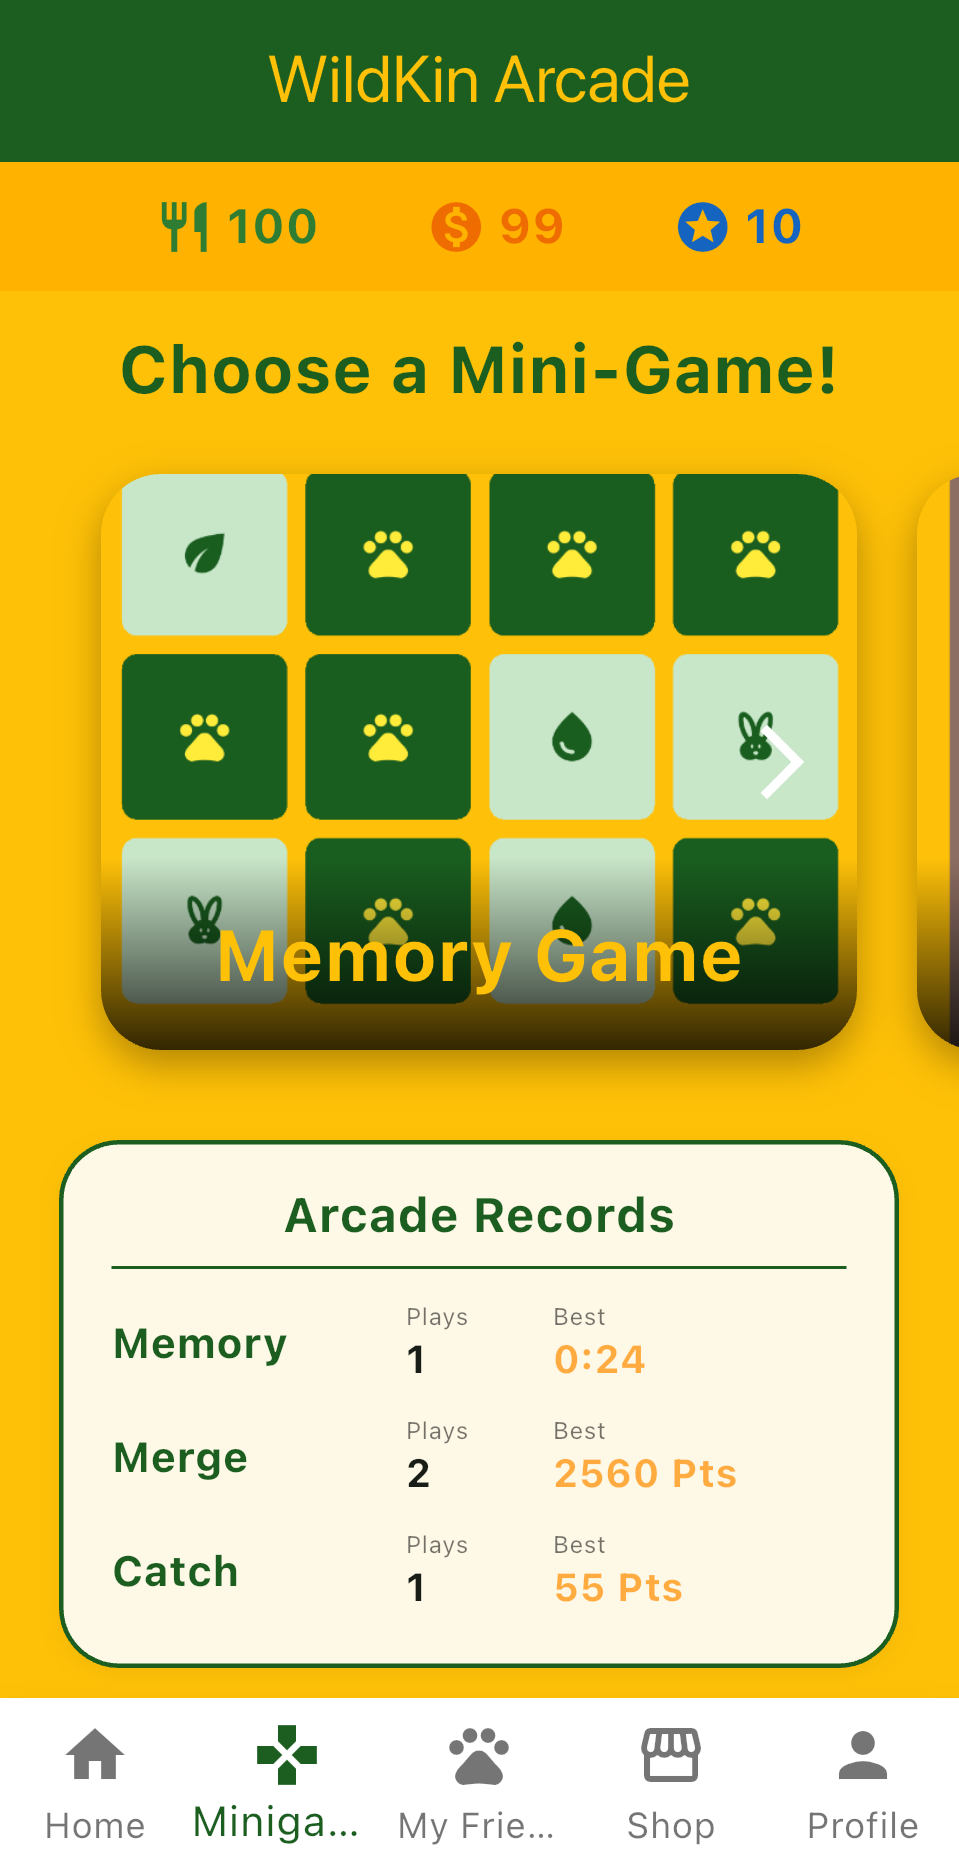
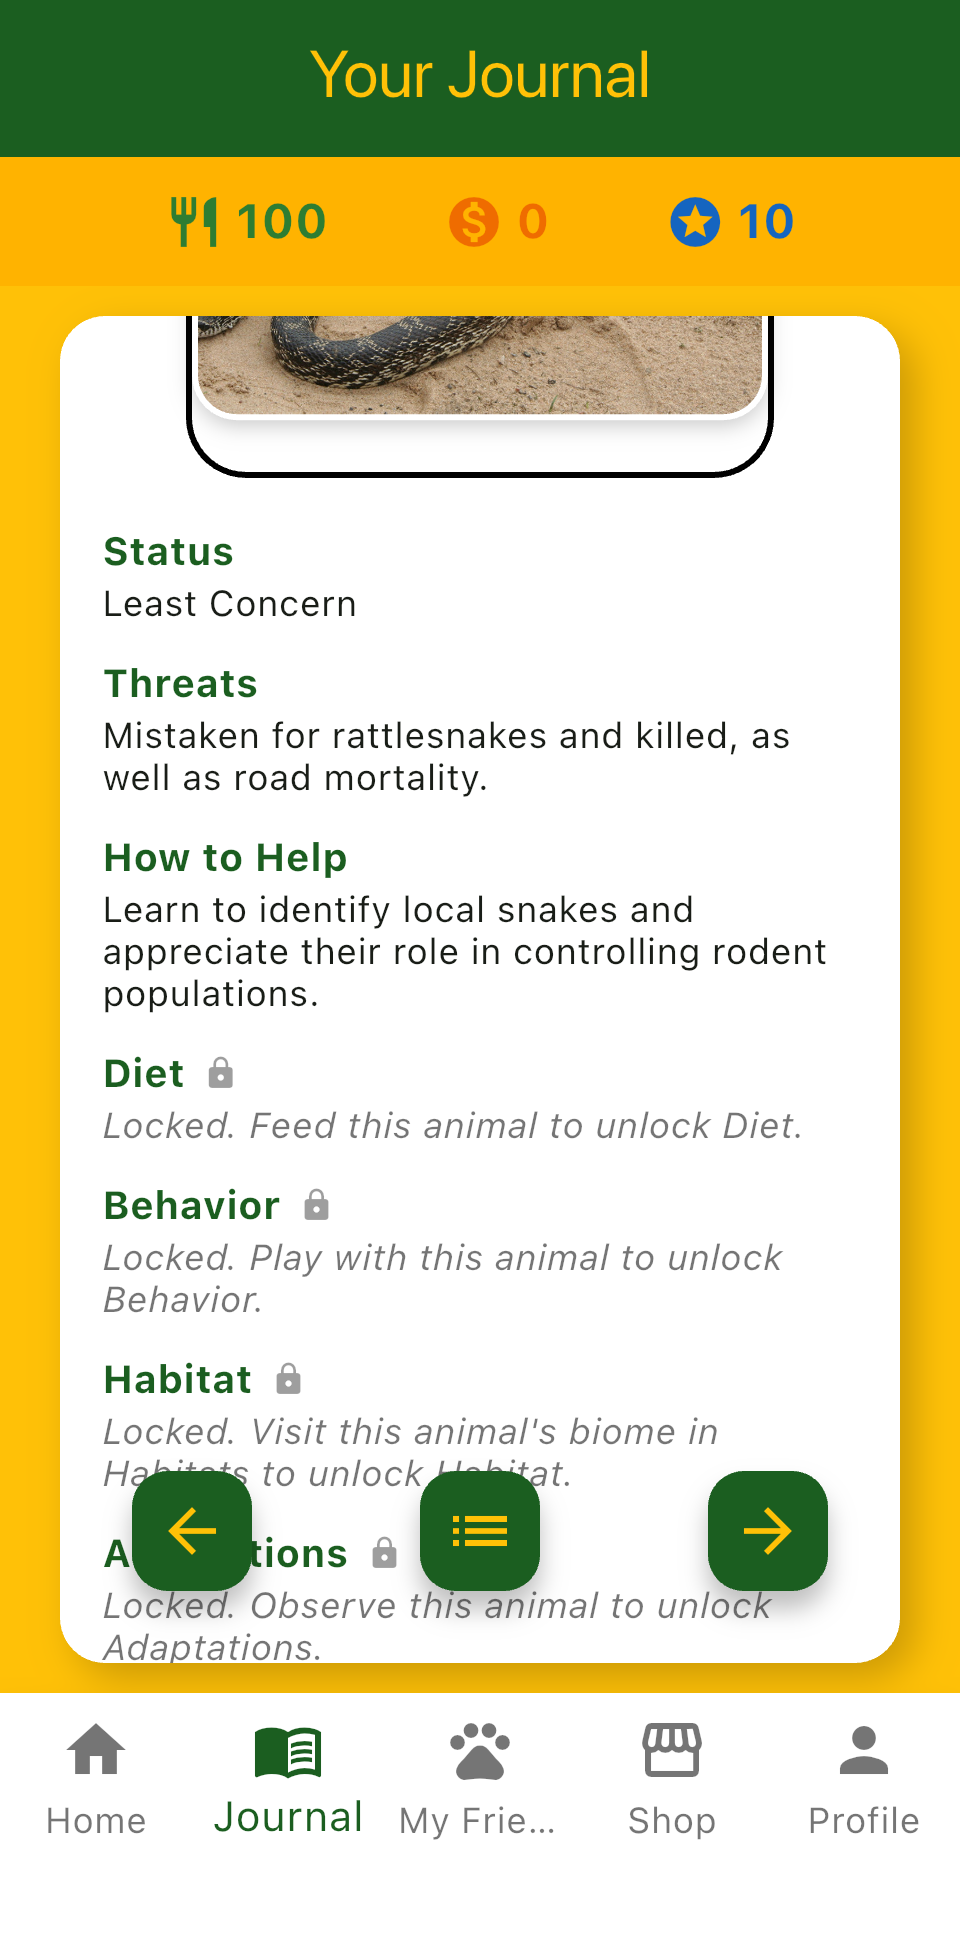
Updated images and added blog system.

diff --git a/article.html b/article.html
@@ -1,0 +1,150 @@
+<!DOCTYPE html>
+<html lang="en">
+<head>
+    <meta charset="UTF-8">
+    <meta name="viewport" content="width=device-width, initial-scale=1.0">
+    <title>Article | WildBridge</title>
+    <script src="https://cdn.tailwindcss.com"></script>
+    <script src="https://cdn.jsdelivr.net/npm/marked/marked.min.js"></script>
+    <link href="https://fonts.googleapis.com/css2?family=Inter:wght@400;700&family=Lexend:wght@500;800&display=swap" rel="stylesheet">
+    <style>
+        body { font-family: 'Inter', sans-serif; }
+        h1, h2, h3, .font-display { font-family: 'Lexend', sans-serif; }
+        .bg-nature { background-image: linear-gradient(rgba(240, 244, 240, 0.75), rgba(240, 244, 240, 0.75)), url('assets/termsbg.jpg'); background-size: cover; background-position: center; background-attachment: fixed; }
+        .text-forest { color: #2d4a22; }
+        .bg-forest { background-color: #2d4a22; }
+
+        /* Markdown generated styles */
+        #article-body h2 { font-size: 1.75rem; font-weight: 800; color: #2d4a22; margin-top: 2rem; margin-bottom: 1rem; }
+        #article-body h3 { font-size: 1.25rem; font-weight: 700; color: #2d4a22; margin-top: 1.5rem; margin-bottom: 0.75rem; }
+        #article-body p { margin-bottom: 1.25rem; line-height: 1.75; }
+        #article-body ul { list-style-type: disc; padding-left: 1.5rem; margin-bottom: 1.25rem; }
+        #article-body li { margin-bottom: 0.5rem; }
+        #article-body blockquote { border-left: 4px solid #2d4a22; padding-left: 1.5rem; margin: 1.5rem 0; font-style: italic; color: #4b5563; background-color: rgba(240, 244, 240, 0.5); padding: 1rem; border-radius: 0 0.75rem 0.75rem 0; }
+    </style>
+</head>
+<body class="bg-nature text-gray-800">
+    <!-- Navigation -->
+    <nav class="p-6">
+        <div class="container mx-auto flex justify-between items-center">
+            <a href="index.html" class="text-2xl font-800 text-forest font-display tracking-tight">WildBridge</a>
+            <div class="flex gap-6">
+                <a href="index.html" class="text-forest hover:underline font-medium">Home</a>
+                <a href="about.html" class="text-forest hover:underline font-medium">About</a>
+                <a href="blog.html" class="text-forest hover:underline font-medium">Blog</a>
+                <a href="contact.html" class="text-forest hover:underline font-medium">Contact/Delete Account</a>
+            </div>
+        </div>
+    </nav>
+
+    <!-- Main Article Container -->
+    <main class="container mx-auto px-6 py-12 max-w-3xl">
+        <!-- Back to Blog -->
+        <div class="mb-8">
+            <a href="blog.html" class="inline-flex items-center text-forest font-bold hover:underline text-sm">
+                &larr; Back to Blog
+            </a>
+        </div>
+
+        <article class="bg-white p-8 md:p-12 rounded-3xl shadow-sm space-y-8">
+            <!-- Article Header -->
+            <header class="space-y-4 border-b border-gray-100 pb-8">
+                <div class="flex items-center gap-4 text-sm text-gray-500">
+                    <span id="article-category" class="bg-nature text-forest font-bold px-3 py-1 rounded-full text-xs uppercase tracking-wider">Category</span>
+                    <span id="article-date">November 22, 2026</span>
+                </div>
+                <h1 id="article-title" class="text-3xl md:text-4xl font-800 text-forest leading-tight">
+                    Loading Article...
+                </h1>
+                <div class="flex items-center gap-3 pt-2">
+                    <div class="w-10 h-10 rounded-full bg-forest text-white font-bold flex items-center justify-center text-sm" id="author-initials">WB</div>
+                    <div>
+                        <p id="article-author" class="font-bold text-forest text-sm">WildBridge Team</p>
+                        <p class="text-xs text-gray-400">WildBridge & WildKin Conservation</p>
+                    </div>
+                </div>
+            </header>
+
+            <!-- Featured Image Container (Conditionally Shown/Hidden) -->
+            <div id="article-image-container" class="rounded-2xl overflow-hidden bg-gray-100 h-64 md:h-80 flex items-center justify-center text-gray-400 hidden">
+                <img id="article-image" src="" alt="" class="w-full h-full object-cover">
+            </div>
+
+            <!-- Article Body Content (Rendered via Markdown) -->
+            <div id="article-body" class="text-gray-700 leading-relaxed text-lg">
+                Loading content...
+            </div>
+        </article>
+    </main>
+
+    <!-- Footer -->
+    <footer class="py-12 text-center text-gray-500">
+        <p>&copy; 2026 WildBridge. <a href="terms.html" class="underline">Terms</a> | <a href="privacy.html" class="underline">Privacy</a></p>
+    </footer>
+
+    <script>
+        // Fallback data in case fetch() is blocked by browser CORS policy on file:// protocol
+        const embeddedArticles = {
+            "articles": [
+                {
+                    "id": "welcome-to-wildkin",
+                    "category": "Welcome",
+                    "date": "November 22, 2026",
+                    "title": "Welcome to the WildBridge & WildKin Blog!",
+                    "author": "WildBridge Team",
+                    "authorInitials": "WB",
+                    "image": null,
+                    "summary": "We are thrilled to launch our official blog! Here, you'll find exciting updates on WildKin development...",
+                    "content": "We are thrilled to launch our official blog! Here, you'll find exciting updates on WildKin development, fascinating deep-dives into the behavior and ecology of Southern California's native wildlife, and step-by-step tutorials to help you build the ultimate virtual sanctuary for your animal companions.\n\n## Introduction & Mission\n\nConservation begins with understanding and connection. Through our interactive virtual world, players can adopt virtual wildlife companions inspired by real Southern California species, care for them, explore their natural habitats, and discover fascinating facts about the environment.\n\n## What to Expect on This Blog\n\nIn upcoming posts, we will dive deeper into several key areas:\n\n- **Game Updates:** Patch notes, new biomes, habitat decorations, and feature previews.\n- **Wildlife Facts:** Educational spotlights on native species like mountain lions, bobcats, Anna's hummingbirds, and more.\n- **Tutorials & Guides:** Tips and tricks for mastering minigames, maximizing resource gathering, and completing journal entries.\n\n> \"By helping people better understand wildlife, we can encourage greater appreciation for the animals, habitats, and ecosystems that make our world so extraordinary.\"\n\n## Join Our Journey\n\nStay tuned as we share stories from our conservation journey, collaborate with community members, and continue creating innovative ways to inspire the next generation of wildlife enthusiasts. Thank you for being part of WildBridge!"
+                }
+            ]
+        };
+
+        async function loadMarkdownArticle() {
+            const urlParams = new URLSearchParams(window.location.search);
+            const articleId = urlParams.get('id') || 'welcome-to-wildkin';
+
+            let data;
+            try {
+                const response = await fetch('articles.md');
+                if (!response.ok) throw new Error('Network response was not ok');
+                data = await response.json();
+            } catch (error) {
+                console.warn('Fetch failed (likely due to file:// CORS restriction). Using embedded article data as fallback.', error);
+                data = embeddedArticles;
+            }
+
+            const article = data.articles.find(a => a.id === articleId);
+
+            if (!article) {
+                document.getElementById('article-title').innerText = "Article Not Found";
+                document.getElementById('article-body').innerText = "The requested article could not be found.";
+                return;
+            }
+
+            document.title = `${article.title} | WildBridge`;
+            document.getElementById('article-category').innerText = article.category;
+            document.getElementById('article-date').innerText = article.date;
+            document.getElementById('article-title').innerText = article.title;
+            document.getElementById('article-author').innerText = article.author;
+            document.getElementById('author-initials').innerText = article.authorInitials;
+
+            // Handle optional image display
+            const imageContainer = document.getElementById('article-image-container');
+            const articleImg = document.getElementById('article-image');
+            if (article.image) {
+                articleImg.src = article.image;
+                articleImg.alt = article.title;
+                imageContainer.classList.remove('hidden');
+            } else {
+                imageContainer.classList.add('hidden');
+            }
+
+            // Parse Markdown content using marked.js
+            document.getElementById('article-body').innerHTML = marked.parse(article.content);
+        }
+
+        loadMarkdownArticle();
+    </script>
+</body>
+</html>

diff --git a/blog.html b/blog.html
@@ -1,0 +1,66 @@
+<!DOCTYPE html>
+<html lang="en">
+<head>
+    <meta charset="UTF-8">
+    <meta name="viewport" content="width=device-width, initial-scale=1.0">
+    <title>Blog | WildBridge</title>
+    <script src="https://cdn.tailwindcss.com"></script>
+    <link href="https://fonts.googleapis.com/css2?family=Inter:wght@400;700&family=Lexend:wght@500;800&display=swap" rel="stylesheet">
+    <style>
+        body { font-family: 'Inter', sans-serif; }
+        h1, h2, .font-display { font-family: 'Lexend', sans-serif; }
+        .bg-nature { background-image: linear-gradient(rgba(240, 244, 240, 0.75), rgba(240, 244, 240, 0.75)), url('assets/termsbg.jpg'); background-size: cover; background-position: center; background-attachment: fixed; }
+        .text-forest { color: #2d4a22; }
+        .bg-forest { background-color: #2d4a22; }
+    </style>
+</head>
+<body class="bg-nature text-gray-800">
+    <nav class="p-6">
+        <div class="container mx-auto flex justify-between items-center">
+            <a href="index.html" class="text-2xl font-800 text-forest font-display tracking-tight">WildBridge</a>
+            <div class="flex gap-6">
+                <a href="index.html" class="text-forest hover:underline font-medium">Home</a>
+                <a href="about.html" class="text-forest hover:underline font-medium">About</a>
+                <a href="blog.html" class="text-forest underline font-medium">Blog</a>
+                <a href="contact.html" class="text-forest hover:underline font-medium">Contact/Delete Account</a>
+            </div>
+        </div>
+    </nav>
+
+    <main class="container mx-auto px-6 py-12 max-w-4xl">
+        <div class="text-center mb-16">
+            <h1 class="text-4xl md:text-5xl font-800 text-forest mb-4">Blog</h1>
+            <p class="text-xl text-gray-600 max-w-2xl mx-auto">This is where we will publish updates about the game, interesting animal facts, and the tutorials</p>
+        </div>
+
+        <div class="space-y-8">
+            <!-- Active Article Card -->
+            <article class="bg-white p-8 md:p-10 rounded-3xl shadow-sm border border-gray-100 transition hover:shadow-md">
+                <div class="flex items-center gap-4 text-sm text-gray-500 mb-3">
+                    <span class="bg-nature text-forest font-bold px-3 py-1 rounded-full text-xs uppercase tracking-wider">Welcome</span>
+                    <span>November 22, 2026</span>
+                </div>
+                <h2 class="text-2xl md:text-3xl font-800 text-forest mb-4">
+                    <a href="article.html?id=welcome-to-wildkin" class="hover:underline">Welcome to the WildBridge & WildKin Blog!</a>
+                </h2>
+                <p class="text-gray-600 leading-relaxed mb-6">
+                    We are thrilled to launch our official blog! Here, you'll find exciting updates on WildKin development, fascinating deep-dives into the behavior and ecology of Southern California's native wildlife, and step-by-step tutorials to help you build the ultimate virtual sanctuary for your animal companions. Stay tuned as we share stories from our conservation journey and tips for getting the most out of your game experience.
+                </p>
+                <div class="flex items-center justify-between">
+                    <div class="flex items-center gap-3">
+                        <div class="w-10 h-10 rounded-full bg-forest text-white font-bold flex items-center justify-center text-sm">WB</div>
+                        <div>
+                            <p class="font-bold text-forest text-sm">WildBridge Team</p>
+                            <p class="text-xs text-gray-400">Published on WildBridge</p>
+                        </div>
+                    </div>
+                    <a href="article.html?id=welcome-to-wildkin" class="bg-forest text-white px-6 py-2.5 rounded-full font-bold text-sm hover:opacity-95 transition">Read Article</a>
+                </div>
+            </article>
+
+
+    <footer class="py-12 text-center text-gray-500">
+        <p>&copy; 2026 WildBridge. <a href="terms.html" class="underline">Terms</a> | <a href="privacy.html" class="underline">Privacy</a></p>
+    </footer>
+</body>
+</html>

diff --git a/index.html b/index.html
@@ -23,6 +23,7 @@
         <a href="index.html" class="text-2xl font-800 text-forest font-display tracking-tight">WildBridge</a>
         <div class="flex gap-6">
             <a href="about.html" class="text-forest hover:underline font-medium">About</a>
+            <a href="blog.html" class="text-forest hover:underline font-medium">Blog</a>
             <a href="contact.html" class="text-forest hover:underline font-medium">Contact/Delete Account</a>
         </div>
     </div>
@@ -67,7 +68,7 @@
             <div>
                 <h2 class="text-3xl font-800 text-forest mb-4">Build Your Sanctuary</h2>
                 <p class="text-lg text-gray-600 mb-6">
-                    Use decorations and natural elements to expand your habitats. Inspired by the diverse ecosystems of Southern California, you can visit everything from sun-drenched chaparrals to serene coastal bluffs.
+                    Use decorations and natural elements to expand your habitats. Inspired by the diverse ecosystems of Southern California, you can visit the animals and environments of 6 unique biomes.
                 </p>
             </div>
             <div>
@@ -79,13 +80,14 @@
             <div>
                 <h2 class="text-3xl font-800 text-forest mb-4">Learn New Facts</h2>
                 <p class="text-lg text-gray-600">
-                    Learn a new fact every day on the home page, in the journal, or in each animal's page!
+                    Discover new facts by completing activities with your adopted companions, collecting decorations, and completing biomes. Unlock journal entries for completion!
                 </p>
             </div>
+
         </div>
         <div class="grid grid-cols-2 sm:grid-cols-3 gap-4">
-            <img src="assets/scr1.jpg" alt="WildKin Gameplay Screenshot 1" class="rounded-xl shadow-sm w-full h-auto object-contain">
-            <img src="assets/scr2.jpg" alt="WildKin Gameplay Screenshot 2" class="rounded-xl shadow-sm w-full h-auto object-contain">
+            <img src="assets/scr1.PNG" alt="WildKin Gameplay Screenshot 1" class="rounded-xl shadow-sm w-full h-auto object-contain">
+            <img src="assets/scr2.PNG" alt="WildKin Gameplay Screenshot 2" class="rounded-xl shadow-sm w-full h-auto object-contain">
             <img src="assets/scr3.PNG" alt="WildKin Gameplay Screenshot 3" class="rounded-xl shadow-sm w-full h-auto object-contain">
             <img src="assets/scr4.PNG" alt="WildKin Gameplay Screenshot 4" class="rounded-xl shadow-sm w-full h-auto object-contain">
             <img src="assets/scr5.PNG" alt="WildKin Gameplay Screenshot 5" class="rounded-xl shadow-sm w-full h-auto object-contain">

diff --git a/about.html b/about.html
@@ -20,6 +20,7 @@
             <a href="index.html" class="text-2xl font-800 text-forest font-display tracking-tight">WildBridge</a>
             <div class="flex gap-4">
                 <a href="index.html" class="text-forest hover:underline font-medium">Home</a>
+                <a href="blog.html" class="text-forest hover:underline font-medium">Blog</a>
                 <a href="contact.html" class="text-forest hover:underline font-medium">Contact/Delete Account</a>
             </div>
         </div>

diff --git a/contact.html b/contact.html
@@ -20,6 +20,7 @@
             <a href="index.html" class="text-2xl font-800 text-forest font-display tracking-tight">WildBridge</a>
             <div class="flex gap-4">
                 <a href="about.html" class="text-forest hover:underline font-medium">About</a>
+                <a href="blog.html" class="text-forest hover:underline font-medium">Blog</a>
                 <a href="index.html" class="text-forest hover:underline font-medium">Home</a>
             </div>
         </div>

diff --git a/articles.md b/articles.md
@@ -1,0 +1,15 @@
+{
+  "articles": [
+    {
+      "id": "welcome-to-wildkin",
+      "category": "Welcome",
+      "date": "November 22, 2026",
+      "title": "Welcome to the WildBridge & WildKin Blog!",
+      "author": "WildBridge Team",
+      "authorInitials": "WB",
+      "image": null,
+      "summary": "We are thrilled to launch our official blog! Here, you'll find exciting updates on WildKin development...",
+      "content": "We are thrilled to launch our official blog! Here, you'll find exciting updates on WildKin development, fascinating deep-dives into the behavior and ecology of Southern California's native wildlife, and step-by-step tutorials to help you build the ultimate virtual sanctuary for your animal companions.\n\n## Introduction & Mission\n\nConservation begins with understanding and connection. Through our interactive virtual world, players can adopt virtual wildlife companions inspired by real Southern California species, care for them, explore their natural habitats, and discover fascinating facts about the environment.\n\n## What to Expect on This Blog\n\nIn upcoming posts, we will dive deeper into several key areas:\n\n- **Game Updates:** Patch notes, new biomes, habitat decorations, and feature previews.\n- **Wildlife Facts:** Educational spotlights on native species like mountain lions, bobcats, Anna's hummingbirds, and more.\n- **Tutorials & Guides:**How the game works, how to make progress, and the variety of different areas that you can explore.\n\n> By helping people better understand wildlife, we can encourage greater appreciation for the animals, habitats, and ecosystems that make our world so extraordinary.\n\n## Join Our Journey\n\nStay tuned as we share stories from our conservation journey, collaborate with community members, and continue creating innovative ways to inspire the next generation of wildlife enthusiasts. Thank you for being part of WildBridge!"
+    }
+  ]
+}
